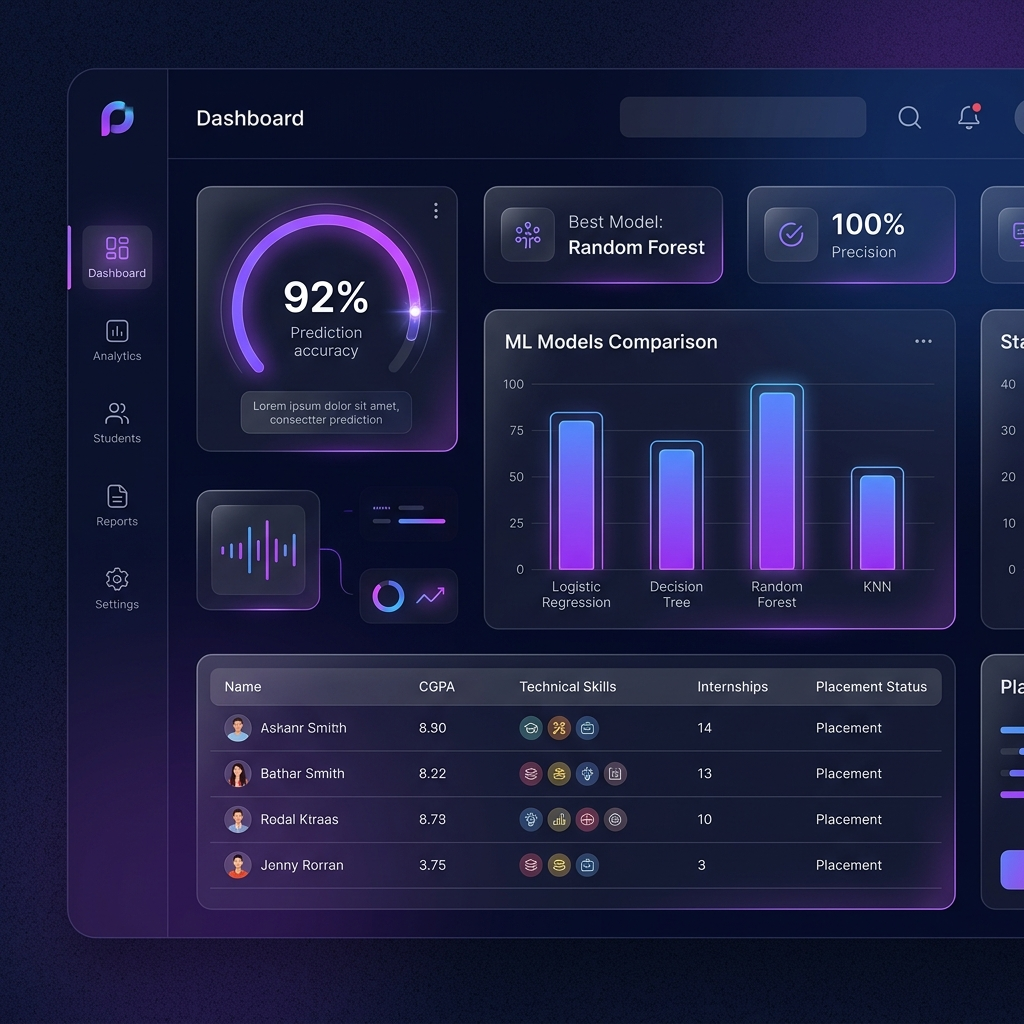
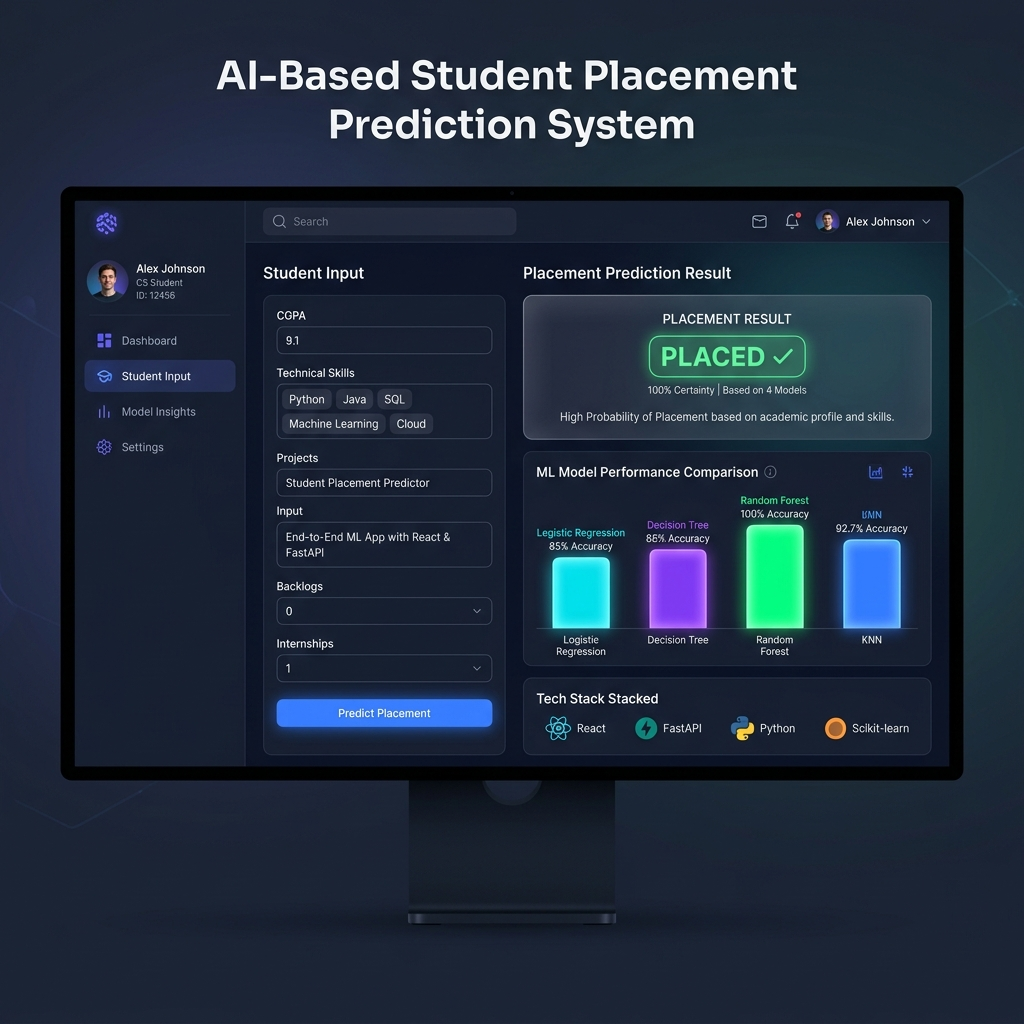
style: update projects grid layout and adjust project card dimensions for improved responsiveness

diff --git a/public/css/style.css b/public/css/style.css
@@ -929,8 +929,8 @@ body.light-theme .spotlight {
 
 .projects-grid {
   display: grid;
-  grid-template-columns: repeat(auto-fit, minmax(480px, 1fr));
-  gap: 40px;
+  grid-template-columns: repeat(3, 1fr);
+  gap: 32px;
 }
 
 .project-card {
@@ -944,7 +944,7 @@ body.light-theme .spotlight {
 .project-img-wrapper {
   position: relative;
   width: 100%;
-  height: 250px;
+  height: 200px;
   overflow: hidden;
   border-bottom: 1px solid var(--glass-border);
 }
@@ -2049,6 +2049,13 @@ textarea.form-control {
 /* ==========================================================================
    RESPONSIVE DESIGN MEDIA QUERIES
    ========================================================================== */
+
+@media (max-width: 1100px) {
+  .projects-grid {
+    grid-template-columns: repeat(2, 1fr);
+    gap: 28px;
+  }
+}
 
 @media (max-width: 992px) {
   .hero-grid {
